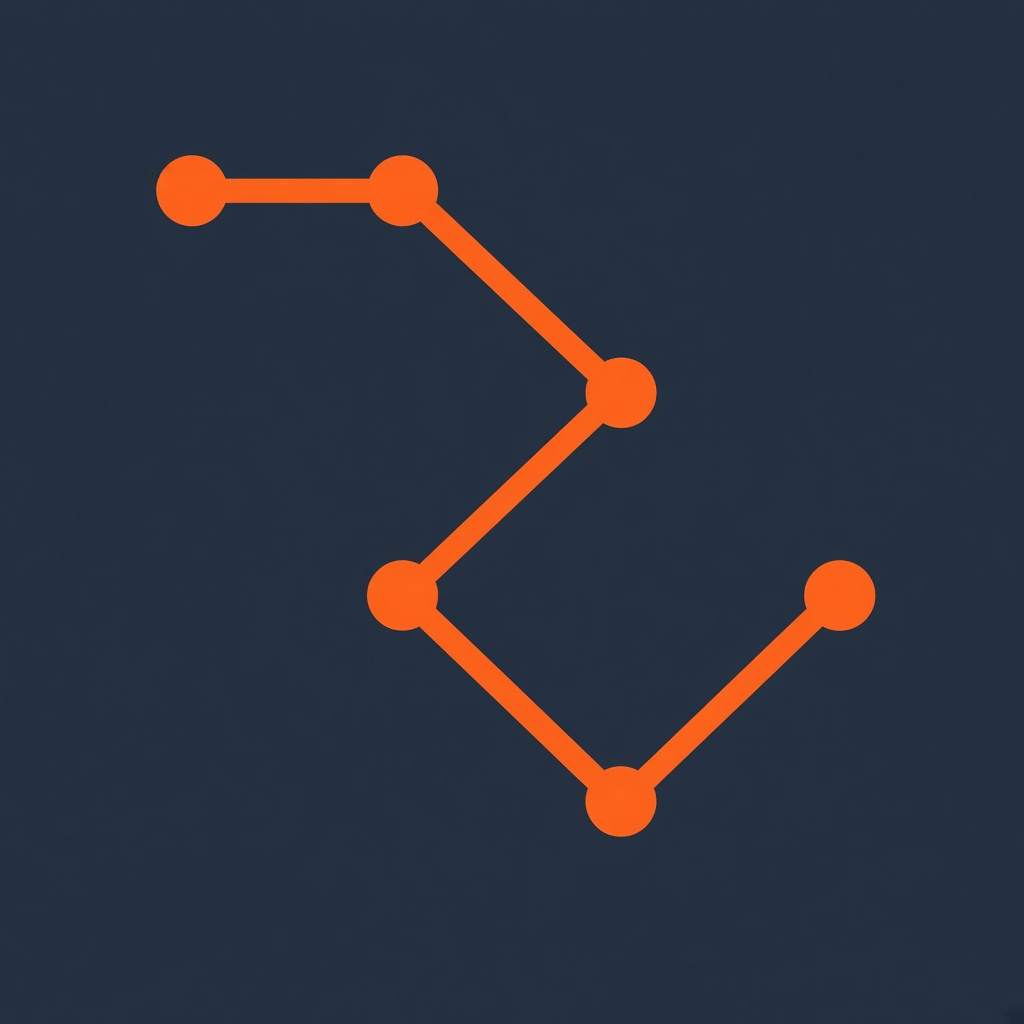
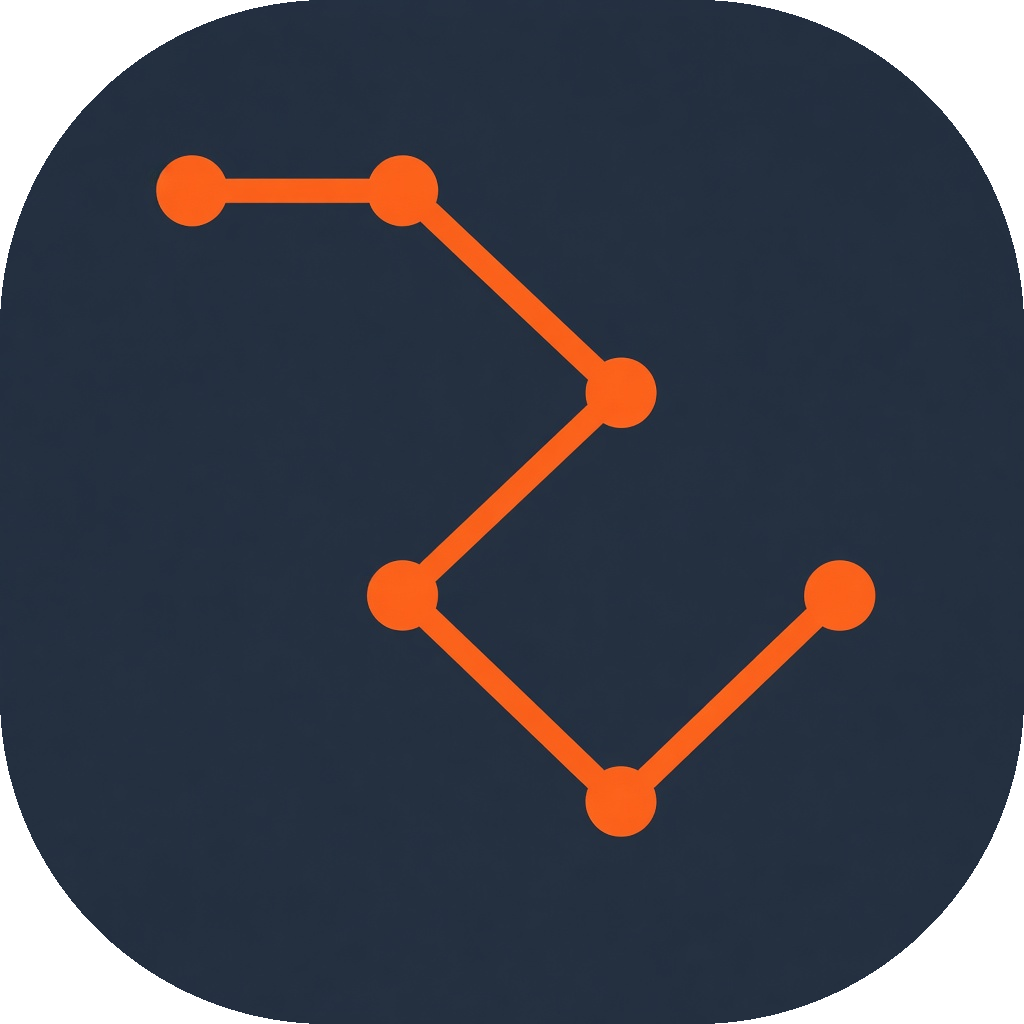
fix: round Zip brand mark corners
Increase corner radius on the shared icon/splash asset and ZipMark clip.

diff --git a/lib/core/widgets/zip_ui.dart b/lib/core/widgets/zip_ui.dart
@@ -85,7 +85,7 @@ class ZipMark extends StatelessWidget {
   @override
   Widget build(BuildContext context) {
     return ClipRRect(
-      borderRadius: BorderRadius.circular(size * 0.22),
+      borderRadius: BorderRadius.circular(size * 0.32),
       child: Image.asset(
         assetPath,
         width: size,
